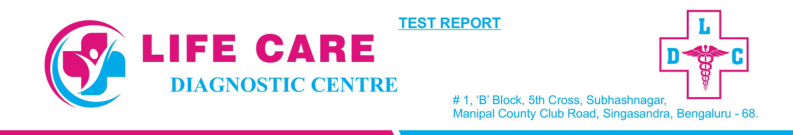
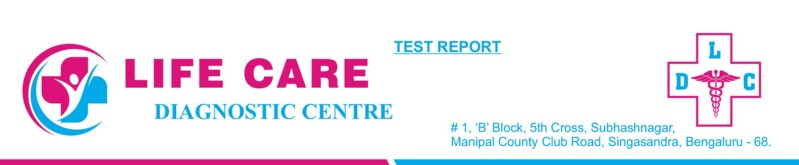
chages the header

Changed region(s): [[0.0, 0.1185, 0.6356, 0.8296], [0.5448, 0.0593, 0.9685, 0.9185], [0.0, 0.9481, 1.0, 1.0]]

diff --git a/assets/script.js b/assets/script.js
@@ -61,9 +61,9 @@
 
       page.drawImage(headerImg, {
         x: 0,
-        y: height - 100,
+        y: height - 90,
         width: width,
-        height: 100
+        height: 90
       });
 
       page.drawImage(footerImg, {
